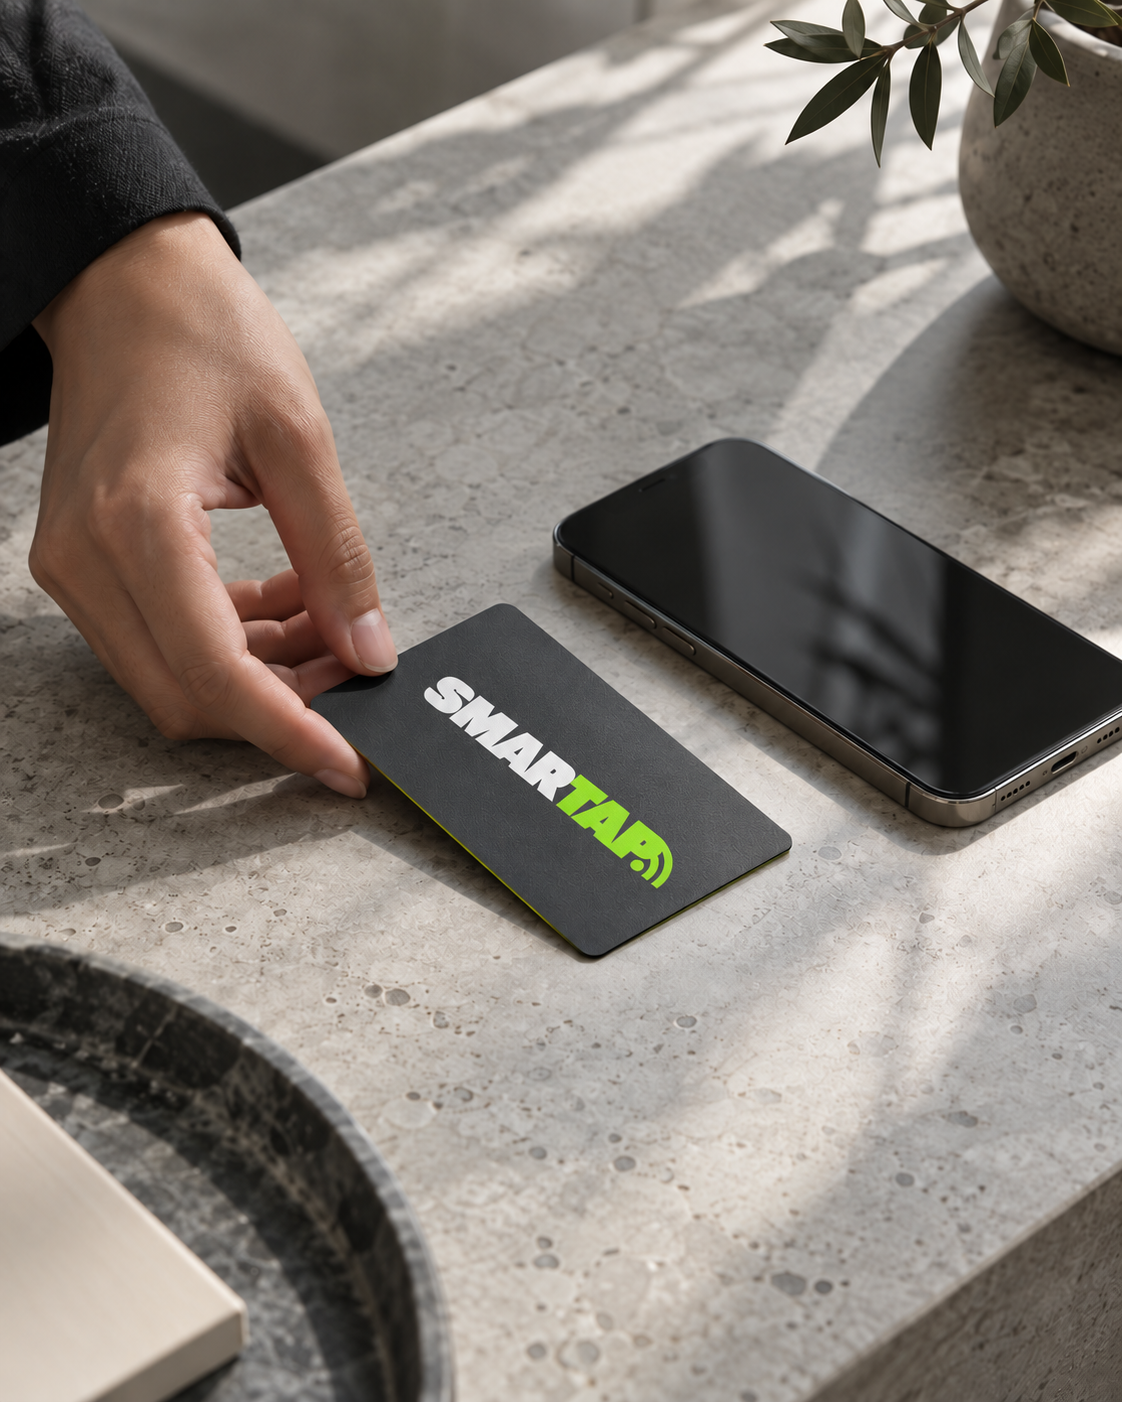
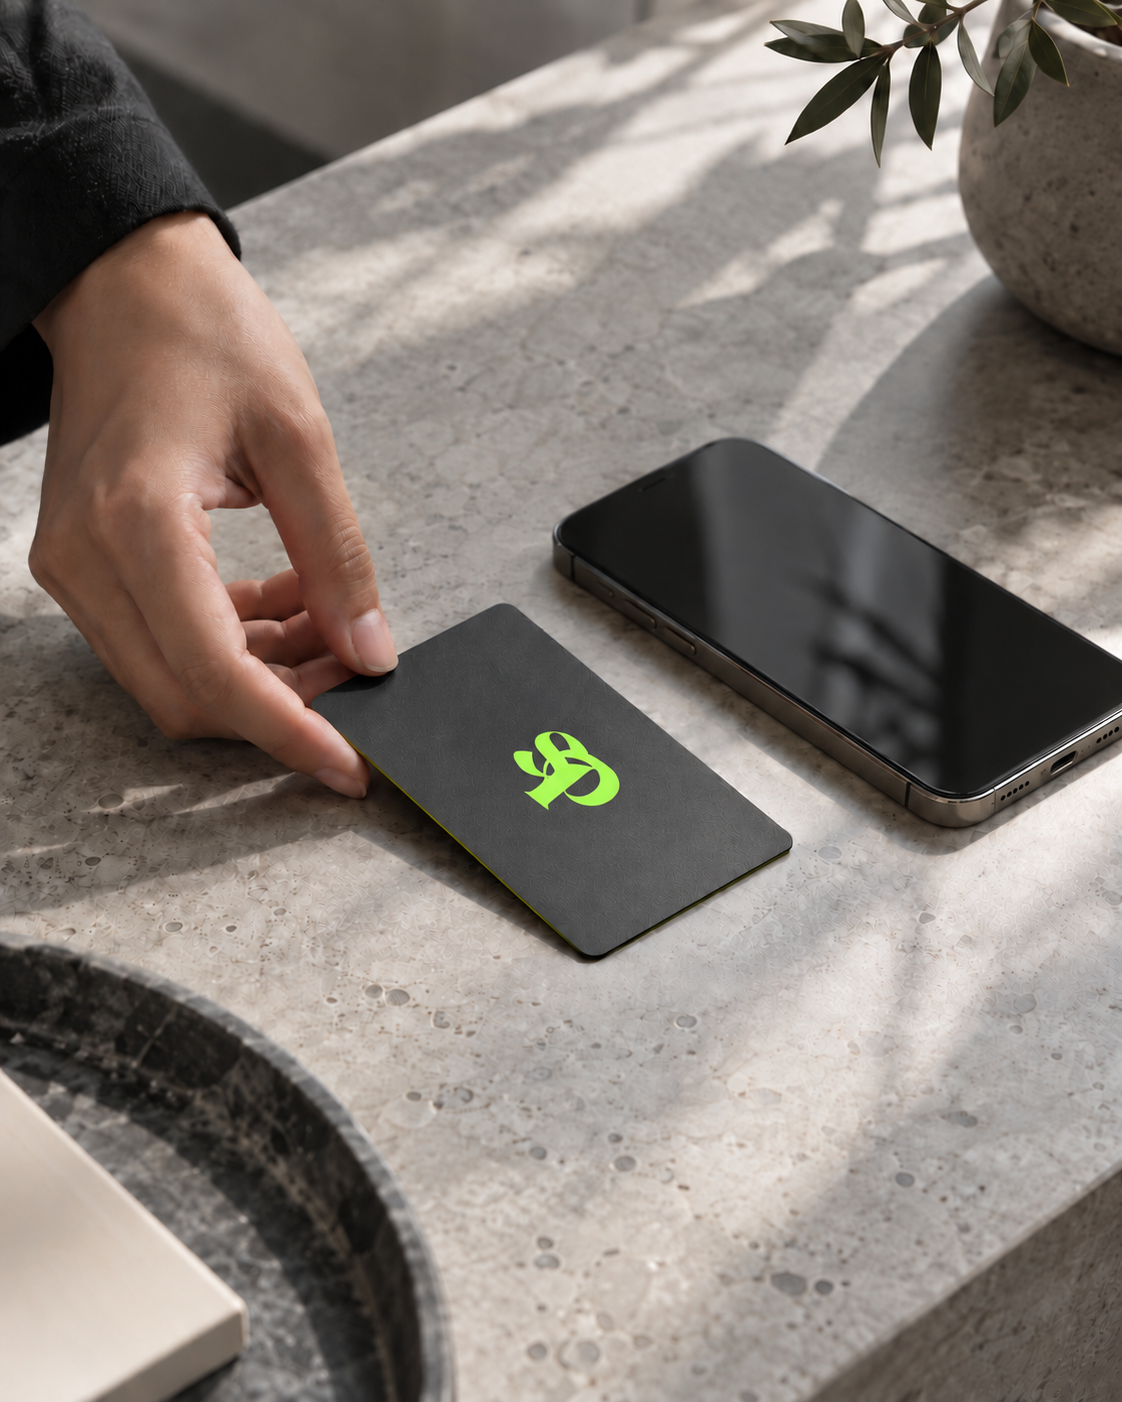
commit

diff --git a/results.md b/results.md
@@ -2,9 +2,17 @@
 
 ## Current State Summary
 
-Production build succeeds with exactly three HTML pages. All remaining public assets are referenced, source asset/page references resolve, and built resource references resolve. Dependency tree and whitespace checks passed. Browser interaction and visual verification were not performed during cleanup.
+Production build succeeds with exactly three HTML pages. The shared tabletop card photo uses the exact compact-mark version selected by the user and retains its 1122×1402 dimensions. All remaining public assets are referenced, and source and built resource references resolve.
 
 ## Entries
+
+- 2026-10-12: Restored the selected earlier image byte-for-byte and verified its SHA-256 hash before rebuilding.
+
+- 2026-10-12: Visually inspected the full corrected image and measured the final mark within 0.5 px horizontally and 0.2 px vertically of the card center. The asset remains 1122×1402.
+
+- 2026-10-12: Corrected the compact mark placement after visual review; the replacement retains the 1122×1402 source dimensions.
+
+- 2026-10-12: Replaced the full wordmark in `public/card-editorial-branded.png` with the compact lime mark. Inspected the generated edit and confirmed the output retained the source dimensions before replacing the shared asset.
 
 - 2026-10-12: Removed 11,349,169 bytes of obsolete assets and QA artifacts, plus preview source and stale reports. Unused public assets account for 4,783,556 bytes no longer deployed; Starter CSS also shrank from 10.08 kB to 4.39 kB. Rebuilt dist and checked page/resource references and absence of removed artifacts.
 

diff --git a/decisions.md b/decisions.md
@@ -2,9 +2,17 @@
 
 ## Current State Summary
 
-Ship only the homepage, Starter demo, and Business demo. Public assets are limited to files referenced by those pages. Keep the AI harness, project logs, proposed product plan, and Starter Light/Dark modes. Use existing dependencies without adding cleanup tooling.
+Ship only the homepage, Starter demo, and Business demo. Public assets are limited to files referenced by those pages. The tabletop card photo uses the compact SmarTap mark; other branding assets remain unchanged. Keep the AI harness, project logs, proposed product plan, and Starter Light/Dark modes.
 
 ## Entries
+
+- 2026-10-12: User selected the earlier generated card version shown in their screenshot. Restored that exact file without further positioning or regeneration.
+
+- 2026-10-12: Used measured image coordinates for final placement: card center (550.0, 779.8) and mark bounding-box center (549.5, 780.0). Used the generated blank card texture as the base and preserved the existing compact mark pixels.
+
+- 2026-10-12: Centered the compact mark optically within the photographed card face rather than relying on its first placement.
+
+- 2026-10-12: Used the existing compact SVG mark as the exact reference for the photographic edit. Kept the same asset path so the homepage and Starter demo receive the update without code changes.
 
 - 2026-10-12: User confirmed removing design previews. Removed superseded original photos as part of launch cleanup; branded runtime photos remain. Removed obsolete design QA reports with their captures to avoid stale verification claims.
 

diff --git a/progress.md b/progress.md
@@ -2,9 +2,17 @@
 
 ## Current State Summary
 
-Launch cleanup is complete for the SmarTap marketing site and its Starter and Business demos. Removed design previews, unused public assets, archived bundles, and obsolete QA artifacts. The homepage retains horizontal mobile packages and animated FAQ chevrons. The profile app in plan.md remains proposed work.
+The SmarTap marketing site and its Starter and Business demos are ready for shipping. The homepage retains horizontal mobile packages and animated FAQ chevrons. The tabletop card photo now uses the compact SmarTap mark instead of the full wordmark. The profile app in plan.md remains proposed work.
 
 ## Entries
+
+- 2026-10-12: Restored the exact earlier compact-mark card image selected by the user from the conversation preview.
+
+- 2026-10-12: Measured the photographed card and placed the compact mark at its geometric center, replacing the earlier visually offset version.
+
+- 2026-10-12: Repositioned the compact mark toward the lower-right so it is visually centered on the tabletop card.
+
+- 2026-10-12: Replaced the large wordmark printed on the tabletop card photo with the compact lime SmarTap mark while preserving the photo composition and dimensions.
 
 - 2026-10-12: Removed preview routes and their state/styles, unused photos and logos, reference bundle, old screenshots/scripts/reports, and desktop.ini. Updated README, architecture, context, and ignore rules.
 
